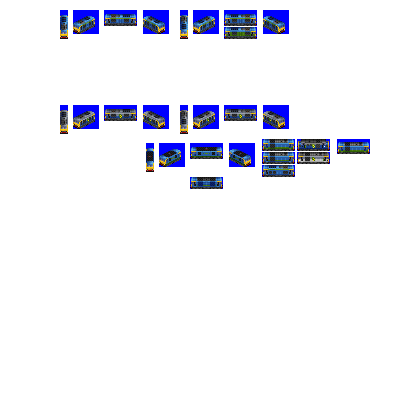
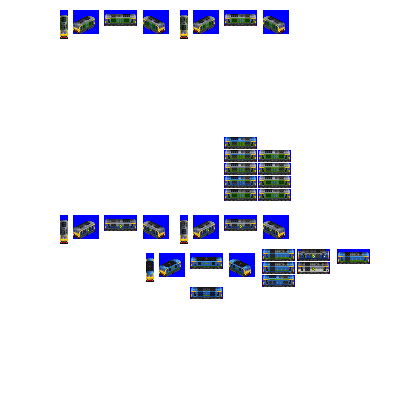
Change: sprites complete for Super Stentor

diff --git a/src/vehicles/super_stentor.py b/src/vehicles/super_stentor.py
@@ -18,7 +18,7 @@ def main(roster_id):
         intro_year_offset=2,  # let's be a little bit later for this one
         gen=6,
         fixed_run_cost_points=210,  # unrealism: run cost nerf for being so high-powered
-        sprites_complete=False,
+        sprites_complete=True,
     )
 
     consist.add_unit(
